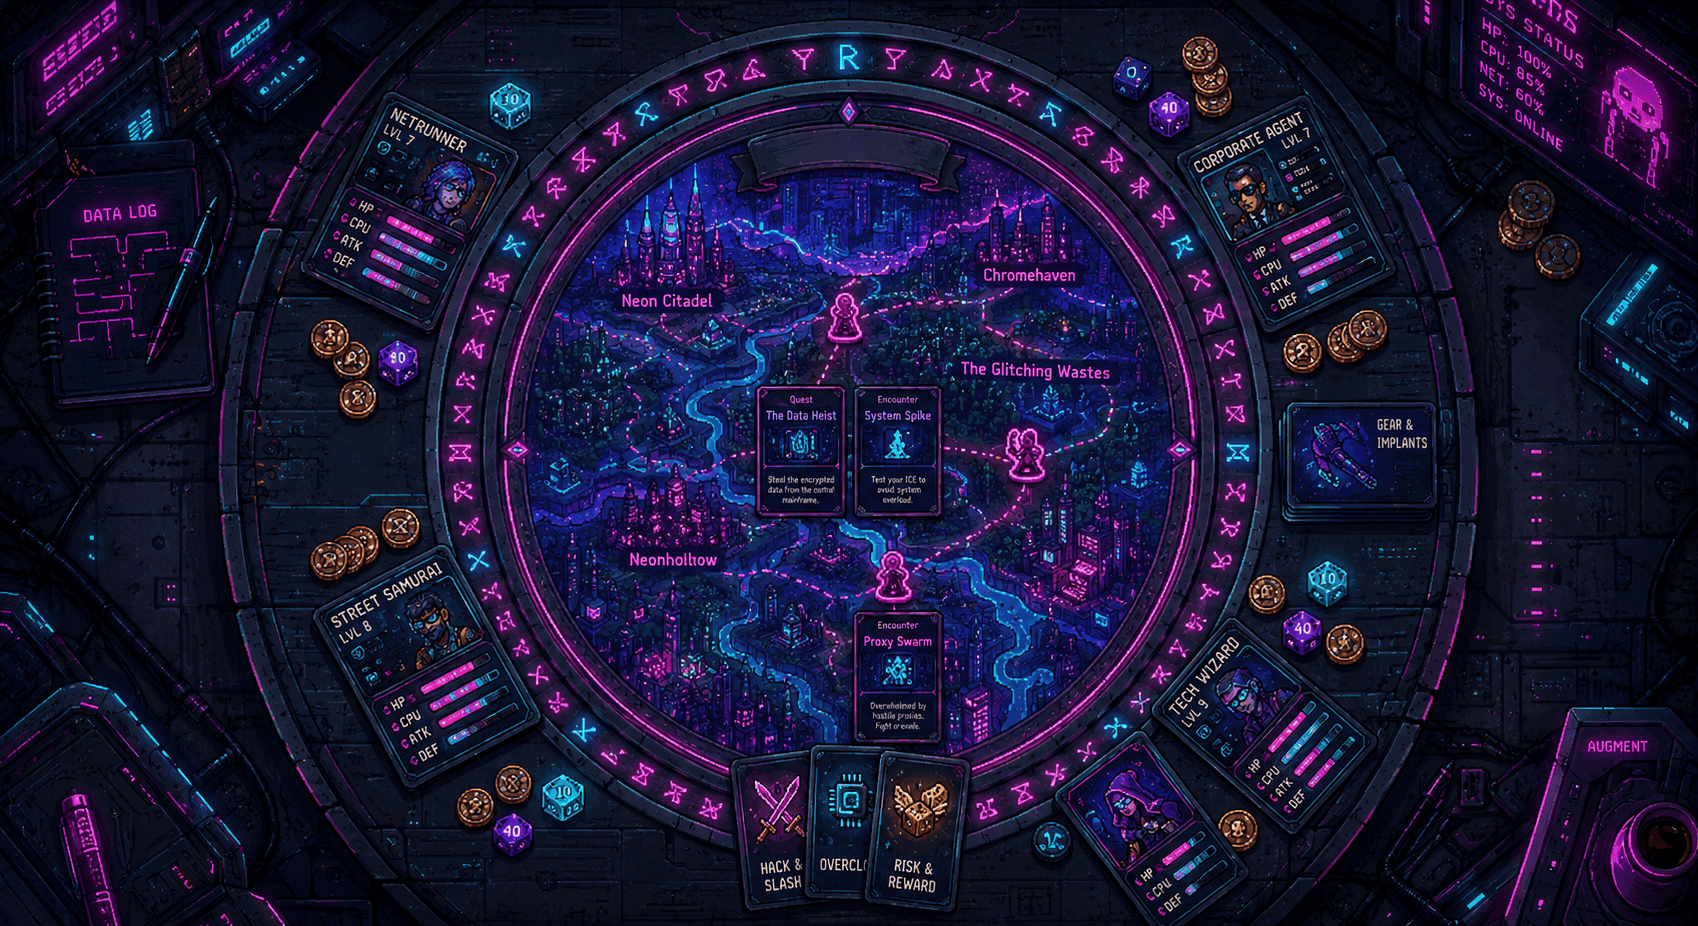
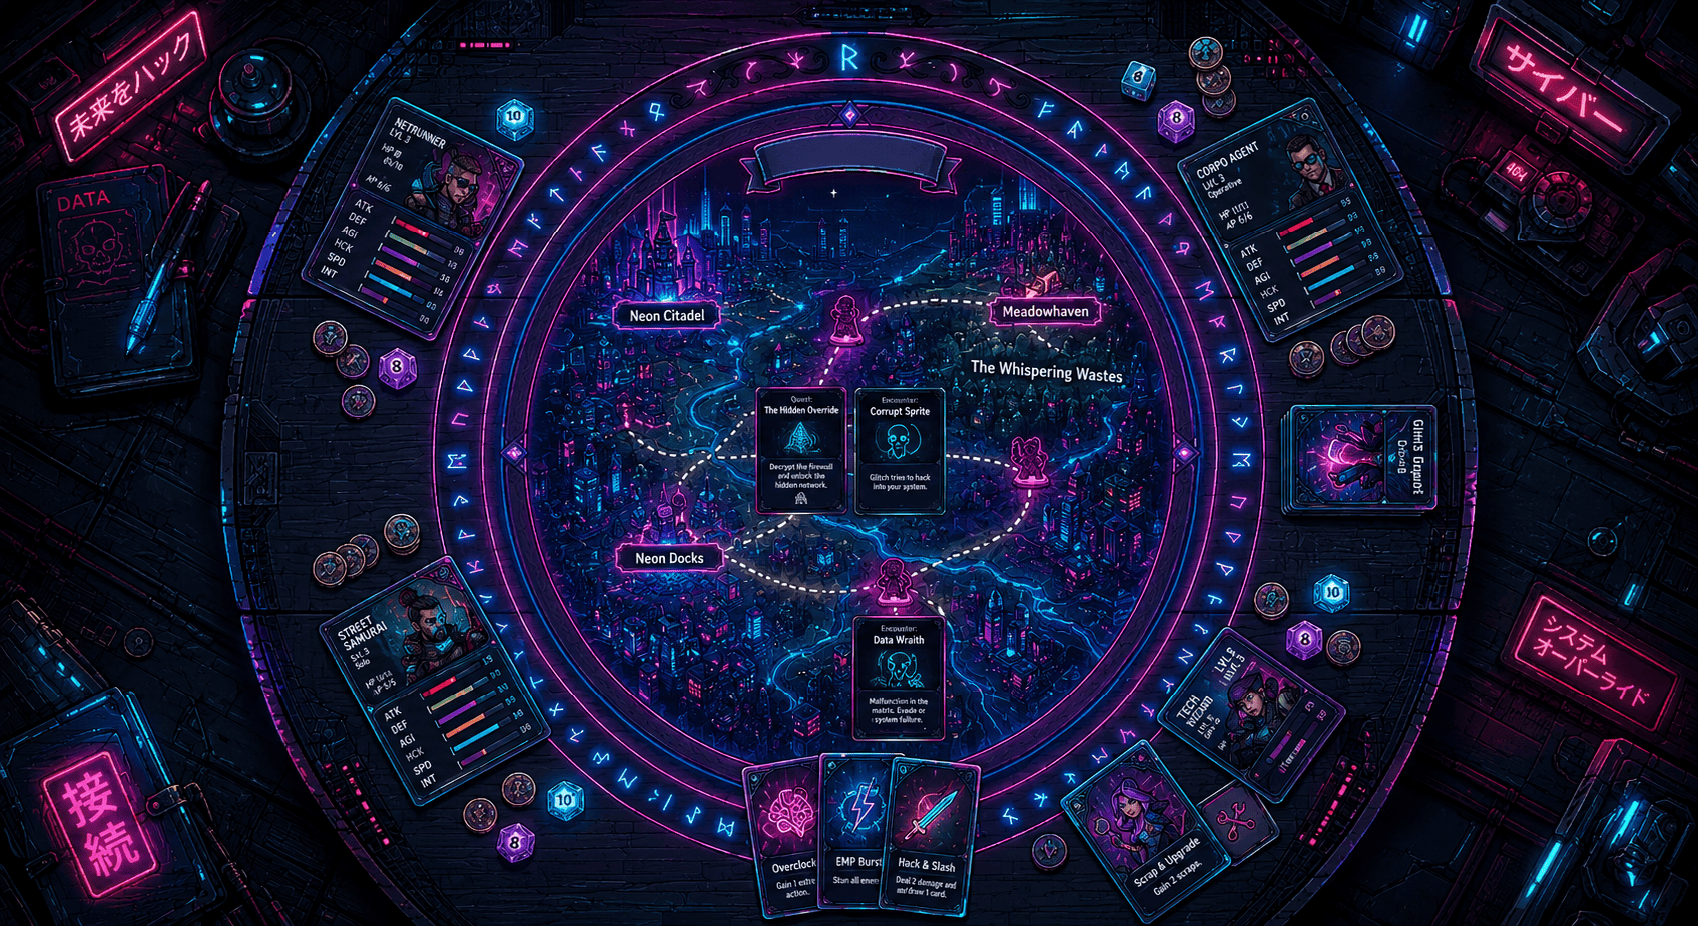
Fixed some issues

diff --git a/dist/index.html b/dist/index.html
@@ -3,7 +3,7 @@
     <head>
         <meta charset="UTF-8" />
         <link rel="icon" type="image/svg+xml" href="./favicon.svg" />
-        <meta name="viewport" content="width=device-width, initial-scale=1.0" />
+        <meta name="viewport" content="width=device-width, initial-scale=1.0, maximum-scale=1.0, user-scalable=no" />
         <title>7 Wonders Duel</title>
         <link rel="preconnect" href="https://fonts.googleapis.com" />
         <link rel="preconnect" href="https://fonts.gstatic.com" crossorigin />
@@ -11,8 +11,8 @@
             href="https://fonts.googleapis.com/css2?family=Cinzel:wght@600;700&family=Orbitron:wght@500;600;700&family=Source+Sans+3:ital,wght@0,400;0,500;0,600;0,700;1,400&display=block"
             rel="stylesheet"
         />
-      <script type="module" crossorigin src="./assets/index-22d5f57e.js"></script>
-      <link rel="stylesheet" href="./assets/index-617e6b72.css">
+      <script type="module" crossorigin src="./assets/index-a1b55b45.js"></script>
+      <link rel="stylesheet" href="./assets/index-e96eb2b4.css">
     </head>
     <body>
         <div id="app"></div>

diff --git a/src/styles/index.css b/src/styles/index.css
@@ -41,14 +41,15 @@ body {
     font-family: var(--font-body);
     background: var(--app-page-bg);
     overflow-x: hidden;
-    overflow-y: hidden;
-    overscroll-behavior-y: none;
+    overflow-y: auto;
+    overscroll-behavior-y: auto;
+    -webkit-overflow-scrolling: touch;
 }
 
 #app {
     height: var(--app-vh);
     min-height: var(--app-vh);
-    overflow: hidden;
+    overflow: visible;
 }
 
 @media (max-width: 767px) {
